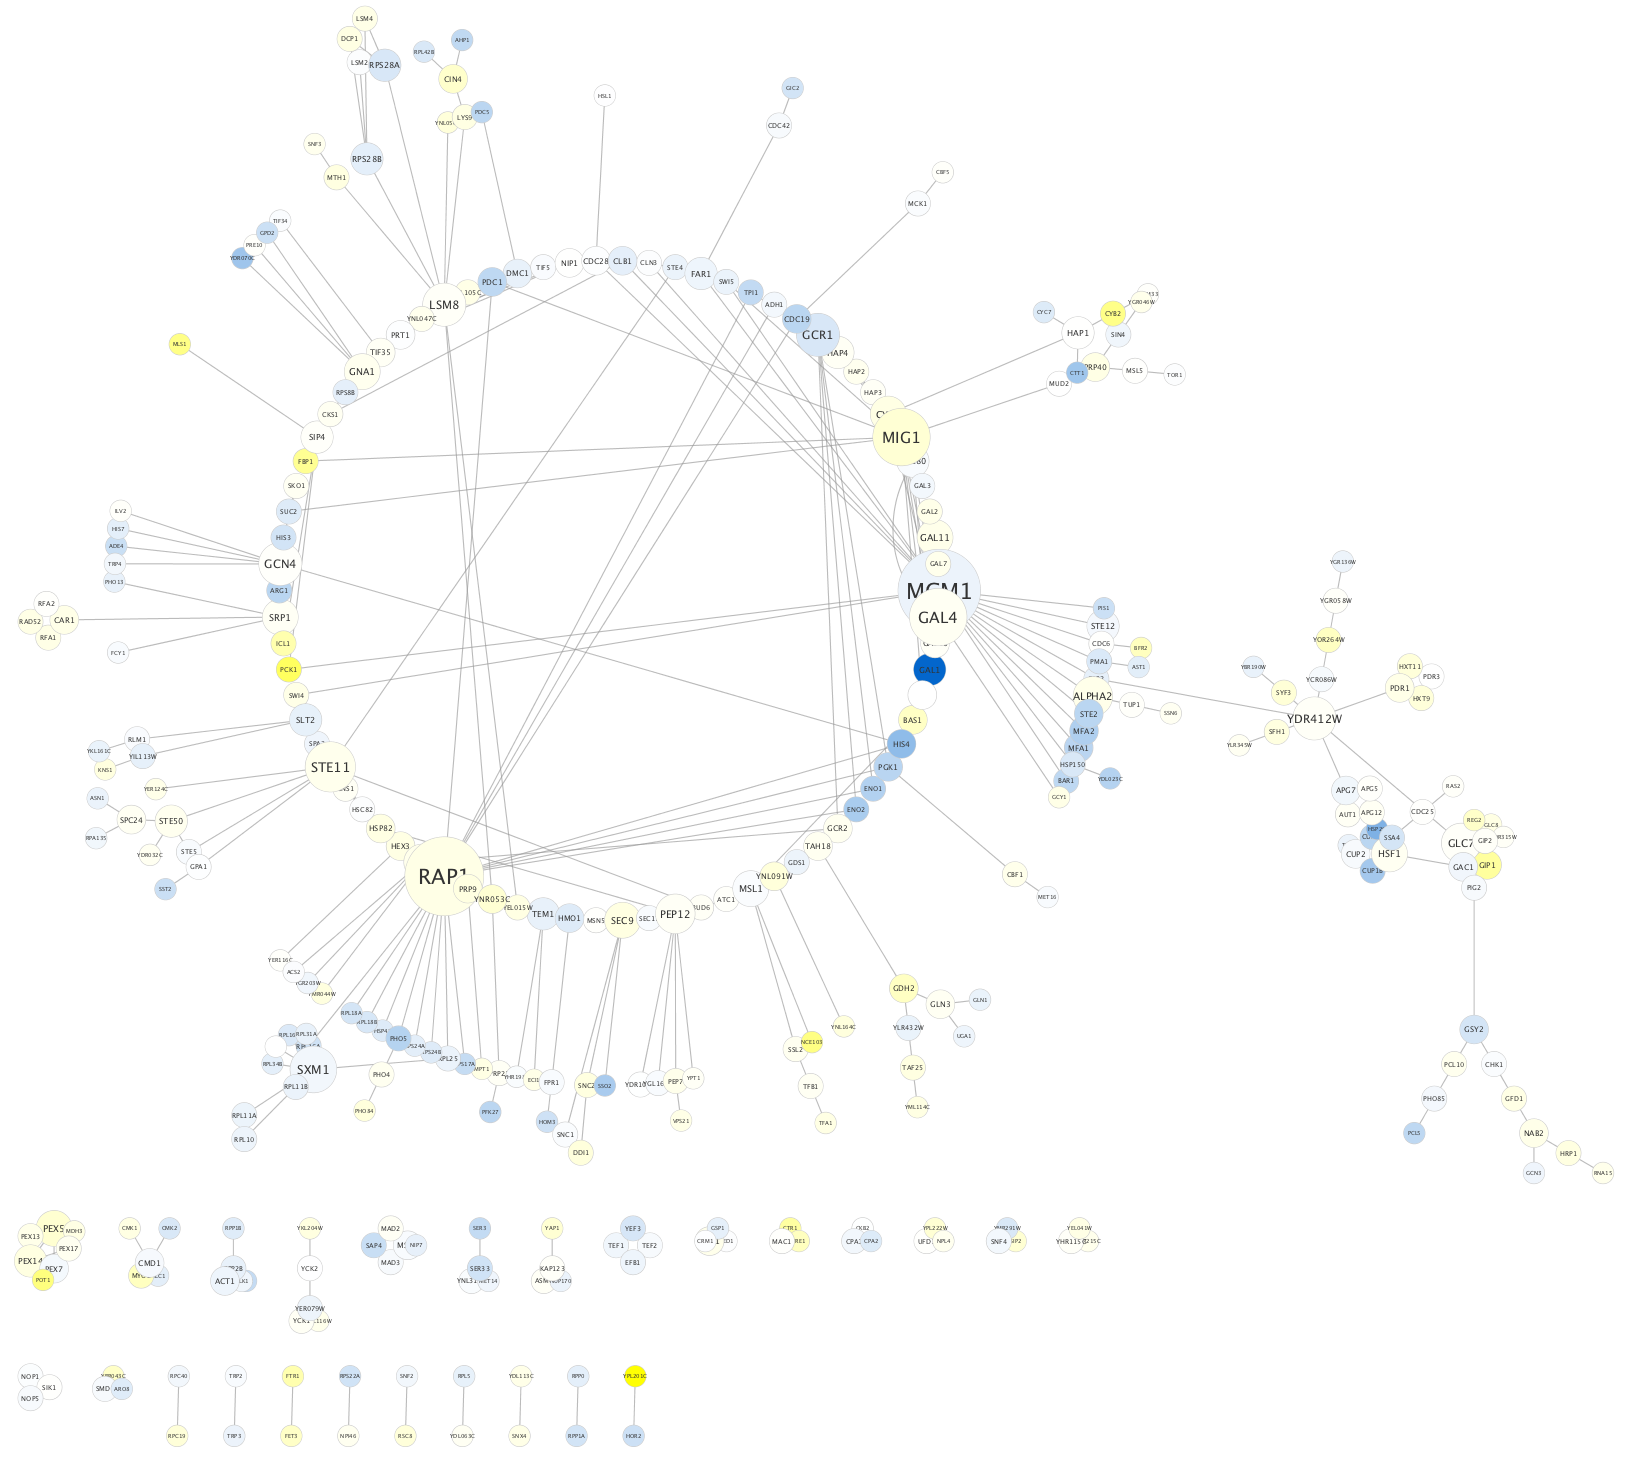
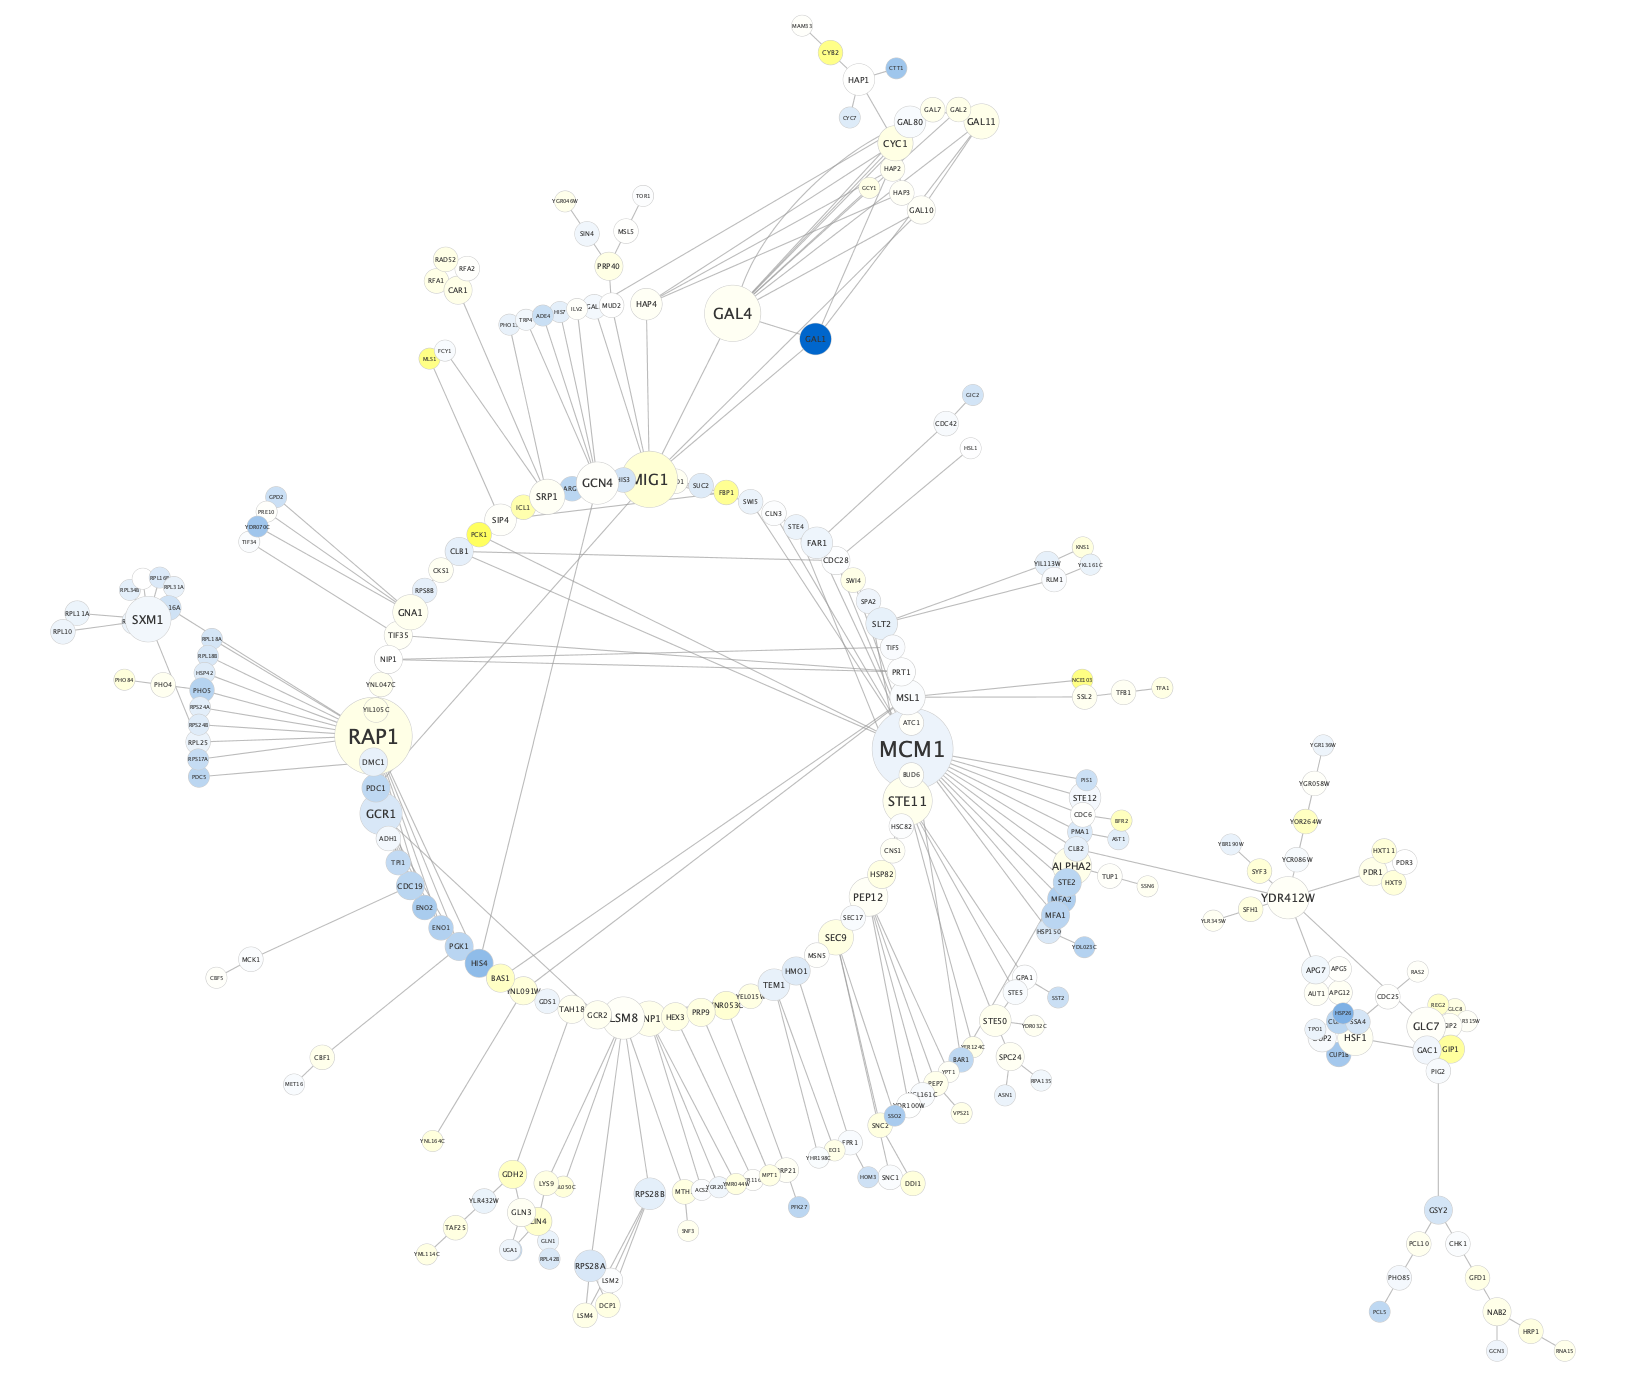
updated text and new images

diff --git a/protocols/network-layout/index.html b/protocols/network-layout/index.html
@@ -39,40 +39,56 @@
 
 
 <section>
-<h2>Applying a Layout Algorithm</h2>
+<h1>Applying a Layout Algorithm</h1>
 <div style="float:left;width:55%">
     <ul>
-    <li>Load the <a href="https://cytoscape.github.io/cytoscape-tutorials/protocols/data/galFiltered.sif"><i>galFiltered.sif</i></a> network. This sample file is included with your Cytoscape installation, in the <b>sampleData</b> folder.</li>
+    <li>Load the <a href="https://cytoscape.github.io/cytoscape-tutorials/protocols/data/galFiltered.sys"><i>galFiltered.cys</i></a> session file. This sample session is included with your Cytoscape installation, in the <b>sampleData/sessions</b> folder.</li>
     <li>To see the whole network, select <highlight>View &rarr; Fit Content</highlight>.</li>
-        <li>Go to <highlight>Layout</highlight> and select <highlight>Circular Layout</highlight>.</li>
     </ul><br /><br />
     <p class="fragment">
-    The <highlight>circular</highlight> algorithm produces layouts that emphasize group and tree structures within a network. It partitions the network by analyzing its connectivity structure, and arranges the partitions as separate circles. The circles themselves are arranged in a radial tree layout fashion.</p>
+    The network layout used in this session file is the <highlight>Prefuse Force Directed Layout</highlight>. This layout is based on the algorithm implemented as part of the <a href="http://www.prefuse.org/">prefuse toolkit</a>. The algorithm is very fast and with the right parameters can provide a very visually pleasing layout. The Force Directed Layout can also use a numeric edge attribute as a weight for the length of the spring.</p>
 </div>
     <div style="float:right;width:45%">
-    <img plain src="circular.png"></div>
+    <img src="prefuse.png"></div>
+</section>
+                
+<section>
+<h1>Layout Menu</h1>
+<div style="float:left;width:55%">
+    <p>Layouts are available from the <highlight>Layout</highlight> menu. In addition to the built-in layout algorithms available by default, a set of yFiles layouts are available for installation. These require a license agreement.</p>
+    <p>Some Cytoscape apps may add additional layout algorithms to the Layout menu.</p>
+    </div>
+    <div style="float:right;width:45%">
+    <img src="LayoutMenu.png"></div>
+</section>
+                
+<section>
+    <h1>Tool Panel</h1>
+    <p>For manual manipulation of the network layout, a <highlight>Tool Panel</highlight> is available from <highlight>View  &rarr;  Show Tool Panel</highlight>. This panel includes a set of tools for scaling,
+    align, distribute, stack and rotating the network. Checking the <highlight>Selected Only</highlight> checkbox will restrict the actions to selected nodes.</p>
+    <img src="ToolPanel.png" style="width:45%">
 </section>
 
 <section>
-<h2>Examples of Layout Algorithms</h2>
+<h1>Examples of Layout Algorithms</h1>
 <p style="float:left;width:55%">The <highlight>Edge-weighted spring-embedded</highlight> layout is based on a “force-directed” paradigm as implemented by Kamada and Kawai (1988). Network nodes are treated like physical objects that repel each other, such as electrons. The connections between nodes are treated like metal springs attached to the pair of nodes. These springs repel or attract their end points according to a force function. The layout algorithm sets the positions of the nodes in a way that minimizes the sum of forces in the network.</p>
-<img plain src="edgeweighted.png" style="float:right;width:40%">
+<img src="edgeweighted.png" style="float:right;width:40%">
 </section>
 
 <section>
-    <h2>Examples of Layout Algorithms</h2>
-<p style="float:left;width:50%">The <highlight>Compound Spring Embedder (CoSE) layout</highlight> is based on the traditional force-directed layout algorithm with extensions to handle multi-level nesting (compound nodes), edges between nodes of arbitrary nesting levels and varying node sizes. It is the suggested Cytoscape layout for compound graphs, although it also works very well with noncompound graphs.</p>
-<img plain src="cose.png" style="float:right;width:48%">
+<h1>Examples of Layout Algorithms</h1>
+<p style="float:left;width:50%">The <highlight>circular</highlight> algorithm produces layouts that emphasize group and tree structures within a network. It partitions the network by analyzing its connectivity structure, and arranges the partitions as separate circles. The circles themselves are arranged in a radial tree layout fashion.</p>
+<img src="circular.png" style="float:right;width:48%">
 </section>
 
 <section>
-<h2>Layout Settings</h2>
+<h1>Layout Settings</h1>
 <ul>
     <li>Select <highlight>Layout &rarr; Settings....</highlight> to open the <b>Layout Settings</b> dialog.</li>
 <li>To change the settings for a particular algorithm, select it from the <highlight>Layout Algorithm></highlight> drop-down. The relevant set of parameters will be displayed.</li>
 <li>When changes are complete, click <highlight>Apply Layout</highlight> to apply to your network.</li>
 </ul><br /><br />
-<img plain src="layout-settings.png" style="width:38%">
+<img src="layout-settings.png" style="width:38%">
 </section>
                 
 <!-- THIS IS WHERE YOUR CONTENT ENDS -->
